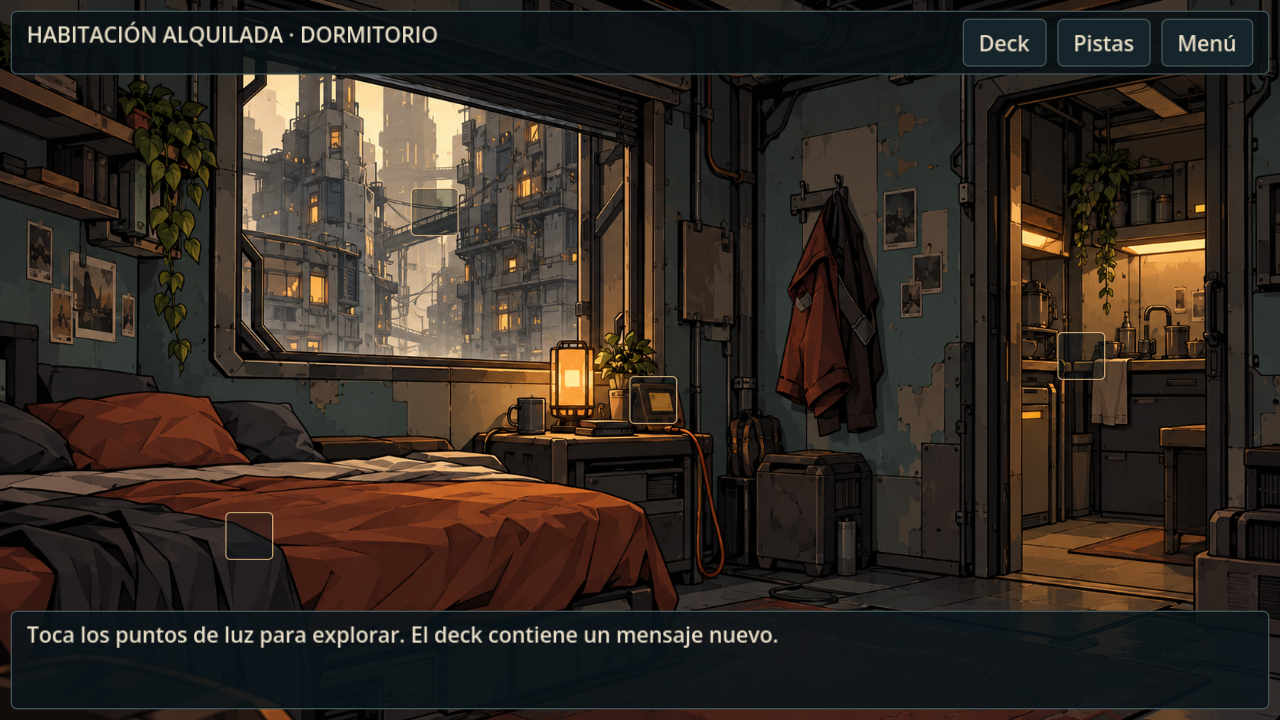
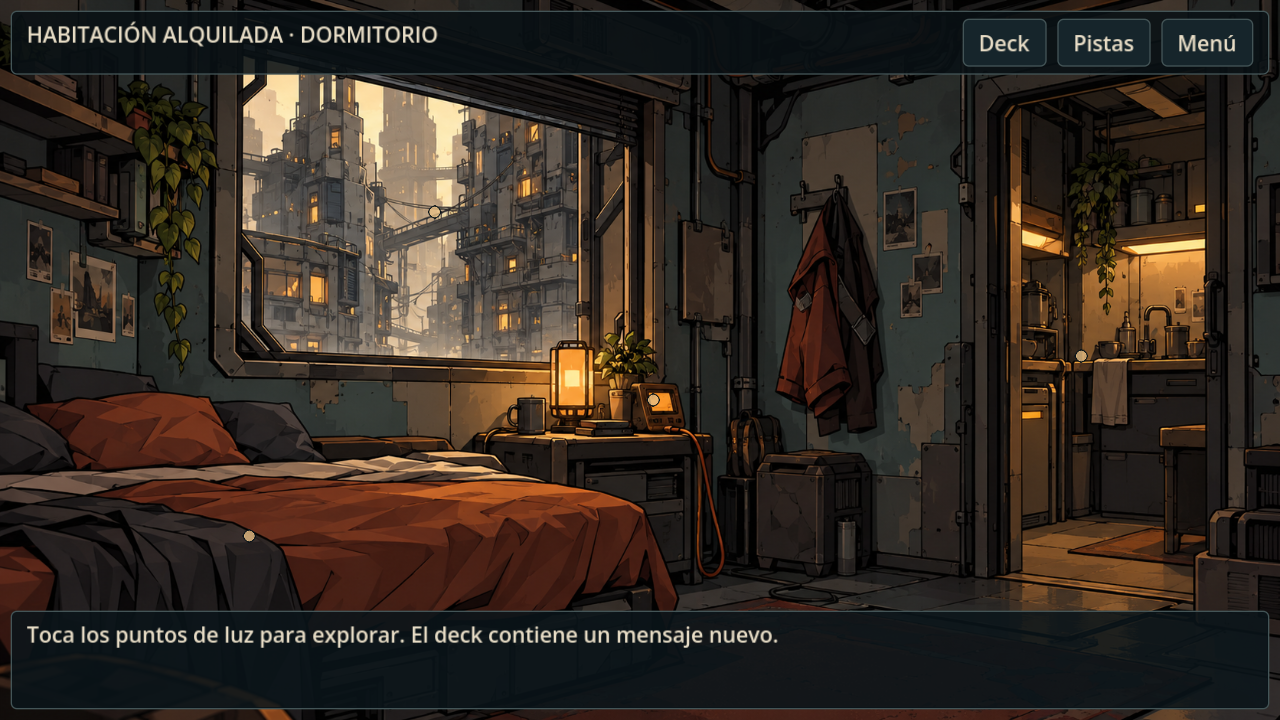
fix: recuperar puntos discretos y ampliar letra movil

diff --git a/proceso/ESTADO_DEL_PROYECTO.md b/proceso/ESTADO_DEL_PROYECTO.md
@@ -32,7 +32,9 @@ Cuatro fondos candidatos generados con imagegen desde referencia de retrato, en 
 
 **Revisión visual del autor, 21 oct:** le gusta mucho el estilo de los entornos a primera vista; pide revisar sus detalles y mostrar calles densamente pobladas. En La Fiebre deben coexistir visitantes de mayores recursos y personas que viven y trabajan allí, incluido el servicio sexual. El asistente ha creado `fiebre_multitud_v2.png` como variante del pasaje visible en el juego, con las dos entradas despejadas. `fiebre.png` y la primera variante poblada permanecen intactos. Prompts y límites documentados en `art/prompts/fiebre_multitud_v2.md`. Esta impresión positiva **no equivale a aprobación final** del nuevo fondo, de cada detalle ni del guion.
 
-**Entrega de interfaz del asistente, 21 oct:** nuevo fondo candidato de menú `menu_nudo_ventana_v3.png`, con dos versiones previas conservadas y generación documentada; la cota exacta de la vista no queda fijada. Sota desaparece del menú y las cuatro acciones son enlaces tipográficos. Apertura con clic/toque/Intro y sin botón. Exploración con ilustración a pantalla completa, bandas translúcidas, letra y controles menores; marcas de 36/48 unidades que coinciden con su área real. Opciones de diálogo amarillas para el avance del contrato y grises para preguntas/salida, más etiqueta accesible. Textos de inicio, objetos, documentos, mensaje y Jefa ampliados en JSON. El fondo y la ficción nueva siguen **pendientes de revisión/aprobación del autor**.
+**Entrega de interfaz del asistente, 21 oct:** nuevo fondo candidato de menú `menu_nudo_ventana_v3.png`, con dos versiones previas conservadas y generación documentada; la cota exacta de la vista no queda fijada. Sota desaparece del menú y las cuatro acciones son enlaces tipográficos. Apertura con clic/toque/Intro y sin botón. Exploración con ilustración a pantalla completa, bandas translúcidas, letra y controles menores. Opciones de diálogo amarillas para el avance del contrato y grises para preguntas/salida, más etiqueta accesible. Textos de inicio, objetos, documentos, mensaje y Jefa ampliados en JSON. El fondo y la ficción nueva siguen **pendientes de revisión/aprobación del autor**.
+
+**Corrección solicitada por el autor, 21 oct:** la captura móvil mostró que los indicadores cuadrados eran demasiado grandes y que la letra era pequeña. El asistente devolvió puntos circulares de 10 unidades, centrados en áreas pulsables acotadas de 36/48 unidades, y amplió texto y botones sólo en ventanas horizontales bajas. El menú móvil se reconstruyó en la prueba a 844×390 para obtener evidencia del tamaño real. La presentación queda pendiente de valoración del autor y toque en teléfono físico.
 
 ## Canon frente a propuesta
 
@@ -40,7 +42,7 @@ Cotas, jerarquía, tecnología física y límites de la Nómina proceden del can
 
 ## Resultados probados
 
-Importación y arranque correctos. **201 comprobaciones headless y 225 nativas con GPU, cero fallos**, incluidas 24 capturas reales. Integridad de canon, cinco originales y dos copias; una única implementación sin dependencia 3D. Web exportada y comprobada en Helium/WebGL 2. Las pruebas previas de clic, toque sintético, contrato y recarga se mantienen; la orientación nueva se probó además con emulación iPhone 12 en Web: aviso en vertical inicial, menú al girar a horizontal y aviso de nuevo al devolver el navegador a vertical. También se comprobó por código que la apertura no puede terminar en móvil vertical, el aviso desaparece al volver a horizontal y la aplicación nativa usa orientación por sensor para mostrarlo. Las pruebas verticales de la exploración pertenecen a la etapa previa a esta decisión; hoy la tapa el aviso en móvil.
+Importación y arranque correctos. **219 comprobaciones headless y 243 nativas con GPU, cero fallos**, incluidas 24 capturas reales. Integridad de canon, cinco originales y dos copias; una única implementación sin dependencia 3D. Web exportada y comprobada en Helium/WebGL 2 antes de la última corrección de indicadores y letra. Las pruebas previas de clic, toque sintético, contrato y recarga se mantienen; la orientación nueva se probó además con emulación iPhone 12 en Web: aviso en vertical inicial, menú al girar a horizontal y aviso de nuevo al devolver el navegador a vertical. También se comprobó por código que la apertura no puede terminar en móvil vertical, el aviso desaparece al volver a horizontal y la aplicación nativa usa orientación por sensor para mostrarlo. Las pruebas verticales de la exploración pertenecen a la etapa previa a esta decisión; hoy la tapa el aviso en móvil.
 
 Tras incorporar el logo original, la prueba Web confirmó **primera visita con logo → recarga directa al menú → cierre y pestaña nueva con logo**. En iPhone emulado, recargar en vertical muestra el bloqueo de orientación sin repetir la apertura. El logo original y su copia pasan comprobación de hash. Los 193/216 resultados automáticos permanecen sin fallos en la última ejecución nativa; estas verificaciones Web son manuales y adicionales.
 
@@ -48,7 +50,7 @@ La carga previa del motor Web se dejó con fondo neutro: el HTML exportado ocult
 
 **Variante poblada del pasaje, 21 oct:** importación correcta; 193 comprobaciones headless y 216 nativas sin fallos, incluida conversación con la Jefa. Capturas reales a 1280×720 y 844×390 inspeccionadas; las entradas se mantienen visibles. Exportación Web regenerada e imagen nueva empaquetada; no se ha repetido recorrido de navegador ni probado teléfono físico. [Detalle](../docs/VALIDACION.md).
 
-**Interfaz actual, 21 oct:** importación y exportación Web correctas; 201/201 pruebas headless y 225/225 nativas. Capturas reales del menú, exploración y diálogo a 1280×720 y 844×390 inspeccionadas. La exportación actual abrió y mostró menú y dormitorio en Helium/Chromium. No se ha probado esta versión en Safari ni en móvil físico. [Evidencia](../docs/VALIDACION.md).
+**Interfaz actual, 21 oct:** importación y exportación Web correctas; 219/219 pruebas headless y 243/243 nativas. Capturas reales del menú, exploración y diálogo a 1280×720 y 844×390 inspeccionadas. La exportación anterior a la corrección de puntos y letra abrió y mostró menú y dormitorio en Helium/Chromium; la versión corregida se exportó, sin nueva inspección en navegador. No se ha probado esta versión en Safari ni en móvil físico. [Evidencia](../docs/VALIDACION.md).
 
 [Resultados, evidencias y límites](../docs/VALIDACION.md). No se han probado móviles físicos, Safari/iOS, Windows ni Linux. El navegador depende de su almacenamiento local. No hay música ni efectos finales; los buses están preparados. Las pruebas técnicas no constituyen aprobación artística.
 
@@ -67,5 +69,6 @@ Revisión del autor sobre la propuesta narrativa y los detalles de los fondos, i
 - **20 oct 2026 · decisión del autor:** apertura una sola vez por pestaña Web; una recarga debe ir al menú y una pestaña nueva debe repetirla. El autor facilitó el logo original «EL ARRECIFE PRODUCTS». **Entrega del asistente:** logo intacto integrado y preservado, marca por `sessionStorage`, prueba visual de las tres situaciones y aviso móvil al recargar. Redacción legal y teléfono físico pendientes.
 - **21 oct 2026 · observación del autor:** el estilo de los entornos gusta a primera vista; pide revisar detalles y calles concurridas con mezcla social en La Fiebre. **Entrega del asistente:** nueva variante poblada del pasaje, original preservado y dirección de población registrada para las tres cotas. **Comprobado:** importación, pruebas y capturas nativas. Pendiente aprobación artística del autor y dispositivo físico.
 - **21 oct 2026 · dirección del autor:** menú de ventana cyberpunk sin Sota ni cajas, apertura con indicación discreta; controles/textos menores, paisaje mayor, opciones de diálogo jerarquizadas y narrativa más extensa. **Entrega del asistente:** candidato de menú, interfaz y textos ajustados, versiones y prompts conservados. **Comprobado:** 201/225 pruebas, 24 capturas, importación/exportación y revisión Web de menú/dormitorio. Pendiente aprobación visual y narrativa y prueba en teléfonos físicos.
+- **21 oct 2026 · nueva observación del autor:** los puntos se habían convertido en cuadrados y el texto móvil era pequeño. **Entrega del asistente:** puntos redondos discretos y letra móvil mayor; área táctil acotada y pruebas de menú móvil real. **Comprobado:** 219/243 pruebas y capturas nativas a 844×390. Pendiente prueba táctil física y valoración visual del autor.
 
 El historial de las etapas anteriores está íntegro en la rama de respaldo y la copia local; no describe la producción actual.

diff --git a/docs/VALIDACION.md b/docs/VALIDACION.md
@@ -4,9 +4,11 @@ Actualizado el 21 de octubre de 2026. Godot 4.7.2 oficial, Mac mini M4, Compatib
 
 ## Revisión de menú, escala y textos · 21 oct 2026
 
-El menú muestra el nuevo fondo de ventana con ciudad, sin Sota; cuatro enlaces tipográficos sustituyen las cajas. Las tres pantallas previas se adelantan con clic, toque o Intro y carecen de botón visible. La exploración usa imagen a pantalla completa con controles superpuestos; los hotspots tienen marca y área de acción coincidentes, de 36 unidades lógicas en escritorio y 48 en móvil horizontal. La tipografía y los botones generales se redujeron. La elección que avanza el contrato aparece en amarillo y las preguntas/salidas en gris; el nombre accesible también explica su función. Se ampliaron introducción, observaciones, mensaje, documentos, noticia y conversación con la Jefa.
+El menú muestra el nuevo fondo de ventana con ciudad, sin Sota; cuatro enlaces tipográficos sustituyen las cajas. Las tres pantallas previas se adelantan con clic, toque o Intro y carecen de botón visible. La exploración usa imagen a pantalla completa con controles superpuestos. La elección que avanza el contrato aparece en amarillo y las preguntas/salidas en gris; el nombre accesible también explica su función. Se ampliaron introducción, observaciones, mensaje, documentos, noticia y conversación con la Jefa.
 
-Importación y exportación Web sin errores. El recorrido automatizado actual obtuvo **201/201 comprobaciones headless** y **225/225 nativas**, incluidas **24 capturas**. Se inspeccionaron [menú de escritorio](evidence/01_menu.png), [menú a 844×390](evidence/menu_844x390.png), [dormitorio](evidence/03_dormitorio.png) y [diálogo horizontal](evidence/dialogo_844x390.png): el paisaje ocupa la pantalla, el menú deja visible la ciudad y la jerarquía amarillo/gris se distingue. La exportación se abrió en Helium/Chromium y se vio el menú nuevo y el dormitorio. Falta verificar la nueva interfaz en Safari y teléfonos físicos; la densidad de texto en pantallas móviles pequeñas requiere juicio del autor.
+**Corrección tras captura del autor:** los cuadrados resultaban demasiado visibles. Cada hotspot vuelve a tener un punto circular de 10 unidades dentro de un área pulsable acotada de 36 o 48 unidades; el área completa no se dibuja. En ventanas horizontales bajas, los textos y botones aumentan de tamaño sin alterar la escala de escritorio. El menú se reconstruye a 844×390 en la prueba para mostrar su tamaño móvil real. [Pasaje horizontal](evidence/viewport_844x390.png) y [diálogo horizontal](evidence/dialogo_844x390.png) inspeccionados; los puntos y la letra se distinguen mejor sin tapar la ilustración. La comodidad del toque aún requiere un teléfono físico.
+
+Importación y exportación Web sin errores. El recorrido automatizado actual obtuvo **219/219 comprobaciones headless** y **243/243 nativas**, incluidas **24 capturas**. Se inspeccionaron [menú de escritorio](evidence/01_menu.png), [menú a 844×390](evidence/menu_844x390.png), [dormitorio](evidence/03_dormitorio.png) y [diálogo horizontal](evidence/dialogo_844x390.png): el paisaje ocupa la pantalla, el menú deja visible la ciudad y la jerarquía amarillo/gris se distingue. La exportación anterior a esta corrección se abrió en Helium/Chromium y mostró el menú y el dormitorio; el paquete Web corregido se regeneró, pero no se ha repetido la revisión visual en navegador. Falta verificar la nueva interfaz en Safari y teléfonos físicos.
 
 ## Revisión del pasaje poblado · 21 oct 2026
 
@@ -19,12 +21,12 @@ Inspección visual del asistente: las dos entradas y el paso central se leen, la
 | Comprobación | Resultado |
 | --- | --- |
 | Importación del proyecto y arranque | Sin errores de script/importación registrados |
-| `tests/run.gd`, headless | **201 comprobaciones, 0 fallos** |
-| Mismo recorrido nativo con GPU Apple M4 | **225 comprobaciones, 0 fallos**; incluye 24 capturas |
+| `tests/run.gd`, headless | **219 comprobaciones, 0 fallos** |
+| Mismo recorrido nativo con GPU Apple M4 | **243 comprobaciones, 0 fallos**; incluye 24 capturas |
 | `tests/preservation.py` | Canon, cinco originales, dos copias de diálogo y logo original idénticos; un proyecto activo; ninguna dependencia 3D |
 | Exportación Web, sin hilos | Generada correctamente con las plantillas 4.7.2 |
 
-Los conteos difieren porque la ejecución GPU incluye comprobaciones de escritura de capturas. Se comprueba logo → autoría → aviso → menú, avance por clic/toque sin botón, espera en móvil vertical, cobertura del menú hasta volver a horizontal y configuración nativa por sensor para que el aviso pueda verse con el teléfono erguido. En las cuatro proporciones se comprueba que cada área táctil sea de 36 o 48 unidades lógicas, coincida con la marca visible, permanezca sobre la ilustración y no tenga rótulos superpuestos. Un clic cercano a la puerta, fuera del área acotada, no navega; el clic central sí. La prueba vertical de interacción de la escena se ejecuta en modo ordenador dentro de Godot para conservar la regresión de layout; en un móvil la escena queda cubierta. No sumar las cifras como si fuesen casos independientes.
+Los conteos difieren porque la ejecución GPU incluye comprobaciones de escritura de capturas. Se comprueba logo → autoría → aviso → menú, avance por clic/toque sin botón, espera en móvil vertical, cobertura del menú hasta volver a horizontal y configuración nativa por sensor para que el aviso pueda verse con el teléfono erguido. En las cuatro proporciones se comprueba que cada área táctil sea de 36 o 48 unidades lógicas, contenga un punto de 10 unidades centrado, permanezca sobre la ilustración y no tenga rótulos superpuestos. Un clic cercano a la puerta, fuera del área acotada, no navega; el clic central sí. La prueba vertical de interacción de la escena se ejecuta en modo ordenador dentro de Godot para conservar la regresión de layout; en un móvil la escena queda cubierta. No sumar las cifras como si fuesen casos independientes.
 
 Las pruebas cubren: IDs/destinos y condiciones, cuatro zonas/doce vistas registradas, partida nueva, bloqueo previo al contrato, menú/opciones/créditos/continuar, intro saltable, deck, mensaje, aceptación, cocina/baño, documentos y paginación, terminal y registro, conversación/elección/flags, ruta a La Fiebre, persistencia de cada campo y rechazo de formatos inválidos, recuperación de `.bak`, rechazo de zona futura y limpieza de nueva partida. Se prueban READY_TO_COMPLETE y COMPLETED con efectos sintéticos de futuros hitos, sin atribuir esos contenidos al juego actual.
 

diff --git a/README.md b/README.md
@@ -23,7 +23,7 @@ En este Mac:
 /Applications/Godot.app/Contents/MacOS/Godot --path game
 ```
 
-Todo se juega con clic o toque. **En móvil se juega sólo en horizontal**: el aviso de giro aparece antes del menú y vuelve a cubrir la partida si se gira el dispositivo a vertical. En ordenador se puede usar cualquier orientación de ventana. El menú muestra la ciudad desde una ventana, sin retrato de Sota; sus opciones son enlaces de texto. **Deck** abre mensajes, contratos, archivo, noticias, contactos y lugares. Toca las pequeñas marcas sobre los objetos y accesos; el área pulsable coincide con la marca visible. **Pistas** abre la lista de acciones y permite ocultarlas. Los textos extensos se desplazan. En diálogo, el amarillo avanza el contrato y el gris ofrece información opcional.
+Todo se juega con clic o toque. **En móvil se juega sólo en horizontal**: el aviso de giro aparece antes del menú y vuelve a cubrir la partida si se gira el dispositivo a vertical. En ordenador se puede usar cualquier orientación de ventana. El menú muestra la ciudad desde una ventana, sin retrato de Sota; sus opciones son enlaces de texto. **Deck** abre mensajes, contratos, archivo, noticias, contactos y lugares. Toca los pequeños puntos de luz sobre los objetos y accesos; cada uno tiene un área pulsable acotada alrededor. **Pistas** abre la lista de acciones y permite ocultarlos. Los textos extensos se desplazan. En diálogo, el amarillo avanza el contrato y el gris ofrece información opcional.
 
 El logo original de **EL ARRECIFE PRODUCTS**, suministrado por el autor, abre el juego. En Web, la secuencia de apertura se muestra una vez por pestaña: **recargar lleva directamente al menú** y abrir el juego en una pestaña nueva vuelve a mostrarla. El aviso de orientación sigue activo incluso cuando se omite la apertura.
 

diff --git a/docs/GAME_DESIGN.md b/docs/GAME_DESIGN.md
@@ -47,7 +47,7 @@ Las fases futuras se prueban con datos sintéticos, pero **no se completan en el
 
 ## Interacciones
 
-Hotspots con ID por pantalla, tipo, etiqueta, rectángulo normalizado, condición visible y disponible, y destino. El centro del rectángulo sitúa una marca sutil que coincide exactamente con su área pulsable: 36×36 unidades lógicas en escritorio y 48×48 en móvil horizontal. El rectángulo normalizado completo no captura toques. No hay rótulos sobre la ilustración. «Pistas» abre, sólo a petición, la lista de acciones disponibles en la vista y permite ocultar las marcas. La ilustración llena la ventana y puede recortarse por arriba/abajo en proporciones distintas de 16:9; los puntos se calculan sobre la imagen renderizada y permanecen dentro de la zona visible.
+Hotspots con ID por pantalla, tipo, etiqueta, rectángulo normalizado, condición visible y disponible, y destino. El centro del rectángulo sitúa un punto circular de 10 unidades lógicas. Su área pulsable acotada mide 36×36 unidades en escritorio y 48×48 en horizontal bajo; el rectángulo normalizado completo no captura toques. No hay rótulos sobre la ilustración. «Pistas» abre, sólo a petición, la lista de acciones disponibles en la vista y permite ocultar los puntos. La ilustración llena la ventana y puede recortarse por arriba/abajo en proporciones distintas de 16:9; los puntos se calculan sobre la imagen renderizada y permanecen dentro de la zona visible.
 
 La experiencia móvil sólo está disponible en horizontal. La condición de candidata de los fondos se documenta fuera de la interfaz jugable.
 

diff --git a/task.md b/task.md
@@ -28,7 +28,7 @@ Dirección del autor, 20 oct 2026: aventura **2D ilustrada en primera persona**,
 - [x] Sustituir la orientación móvil vertical por apertura de tres pantallas y aviso persistente de giro; conservar el uso libre de la ventana en ordenador.
 - [x] Usar el logo original facilitado por el autor, con original/copia íntegros; en Web mostrar la apertura una vez por pestaña, saltarla al recargar y repetirla en pestaña nueva.
 - [x] Menú ilustrado de ventana a la ciudad sin Sota y con enlaces tipográficos; apertura con texto discreto y avance por clic/toque/Intro.
-- [x] Paisaje a pantalla completa, controles superpuestos, marcas interactivas iguales a su área pulsable, tipografía y botones reducidos.
+- [x] Paisaje a pantalla completa, controles superpuestos, puntos circulares con áreas acotadas, tipografía de PC contenida y letra móvil ampliada.
 - [x] Opciones de misión amarillas e información opcional gris; ampliar los textos del primer recorrido.
 - [x] Importación, pruebas automáticas, ejecución nativa con GPU y capturas reales.
 - [x] Exportación Web, clic/toque sintético, recarga y persistencia en navegador de escritorio.
